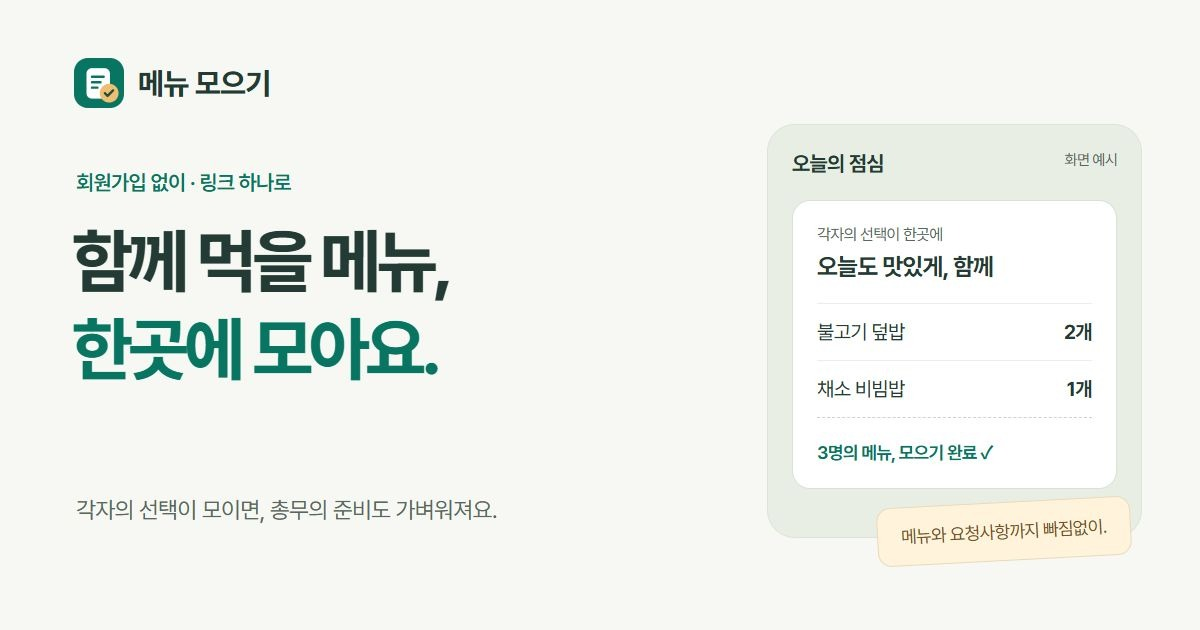
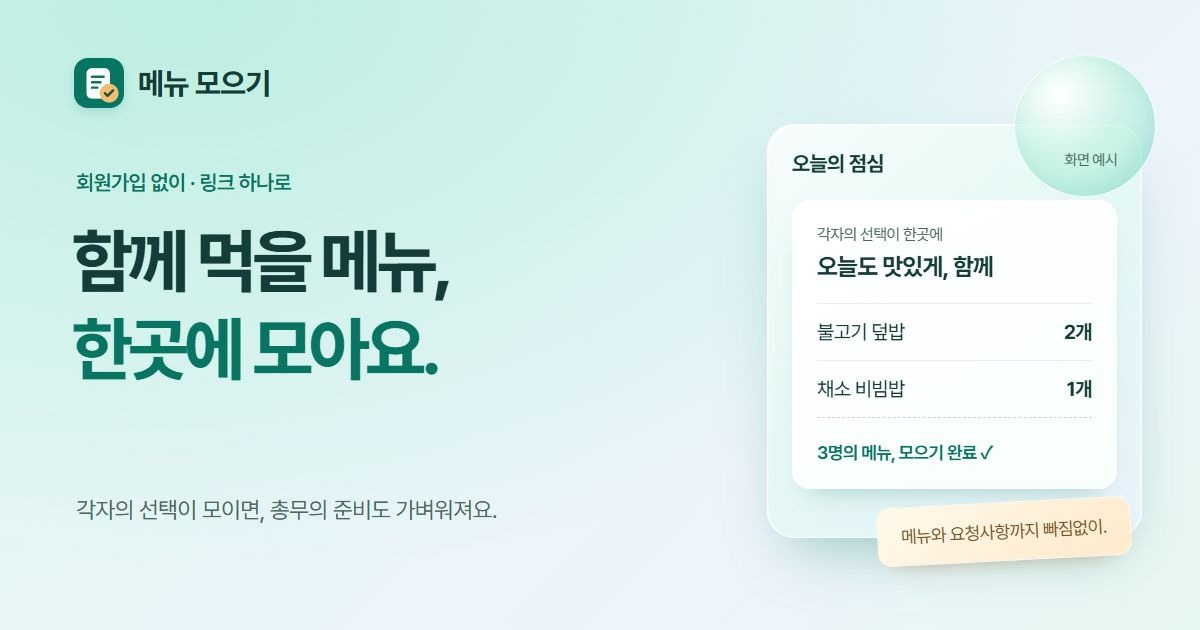
Build mint glass styling for menu collection

diff --git a/index.html b/index.html
@@ -17,7 +17,7 @@
 <link rel="apple-touch-icon" href="icon-180.png">
 <link rel="manifest" href="manifest.webmanifest">
 <meta name="apple-mobile-web-app-title" content="메뉴 모으기">
-<meta name="theme-color" content="#f7f8f3">
+<meta name="theme-color" content="#e8f7f3">
 <link rel="stylesheet" href="https://cdn.jsdelivr.net/gh/orioncactus/pretendard@v1.3.9/dist/web/variable/pretendardvariable-dynamic-subset.min.css">
 <style>
 /* 저녁에 뭐 먹을래? — 배달앱 같은 모바일 화면.
@@ -897,32 +897,38 @@ label.prow{display:block;cursor:pointer}
 .mm.tab-review{padding-bottom:150px}
 .mm :focus-visible{outline:3px solid #006b60;outline-offset:3px}
 @media(max-width:420px){.mm .menus{margin:0 12px;padding:0 12px}.mm .menu-main{padding:12px 0;min-height:140px}.mm .menu .desc{-webkit-line-clamp:1}.mm .m-emo{flex-basis:72px;height:72px;margin-bottom:44px}.mm .m-ctl{right:0;bottom:10px}.mm .nav-i span{font-size:12px}.mm .cartbar{font-size:14px}.mm .cartbar .sp{white-space:normal;line-height:1.3}.mm .pb-treat{flex-wrap:wrap;gap:4px}.mm .pb-left{margin-left:34px}.mm .pb-in{padding:6px 10px;gap:3px}.mm .pb-note{padding-top:3px;padding-bottom:3px}.mm .shop-title h2{font-size:16px}}
-/* 메뉴 모으기: 종이 메뉴판처럼 편안한 면, 또렷한 선택, 넉넉한 터치 영역.
+/* 메뉴 모으기: 민트빛 유리, 볼록한 버튼, 또렷한 메뉴와 넉넉한 터치 영역.
    room.css의 동작별 레이아웃 위에서 브랜드와 반응형 배치를 관리합니다. */
 :root{
-  --mint:#087563;--mint-d:#086452;--mint-l:#e4f2eb;--mint-ll:#f0f7f3;
-  --ink:#233b34;--sub:#566960;--mute:#687970;--line:#dce5de;--band:#edf2ed;--bg:#f7f8f3;
-  --glass:#fff;--glass-hi:#fff;--glass-b:#dce5de;--clay:none;--clay-s:none;--press:none;
-  --grad:linear-gradient(#087563,#087563);--grad-shadow:none;--r:18px;--top-h:68px;--nav-h:72px;
+  --mint:#087e72;--mint-d:#075b53;--mint-l:#d9f5ec;--mint-ll:#effbf7;
+  --ink:#153d38;--sub:#4c6863;--mute:#5b746e;--line:rgba(20,93,83,.15);--band:#e3f3f0;--bg:#e8f7f3;
+  --glass:rgba(255,255,255,.74);--glass-hi:rgba(255,255,255,.96);--glass-b:rgba(255,255,255,.94);
+  --clay:0 20px 38px -24px #0b6f6855,0 5px 14px -8px #275f5b26,inset 0 1px 0 #fff;
+  --clay-s:0 8px 15px -10px #0b6f6870,0 2px 4px #1a695409,inset 0 1px 0 #fff;
+  --press:inset 0 2px 5px #27635d12,inset 0 -1px 0 #fff;
+  --grad:linear-gradient(175deg,#a5f2e3 0%,#63dfcc 38%,#32c5b5 100%);
+  --grad-shadow:0 12px 24px -12px #0a857d90,inset 0 2px 0 #ffffffa6,inset 0 -3px 0 #0b78632b;
+  --action-ink:#083f39;--r:22px;--top-h:68px;--nav-h:72px;
   --display:var(--body);--accent:#d69749;
 }
-html,body{background:var(--bg);color:var(--ink);font-size:16px}
-body::after{display:none}body::before{background:var(--bg)}
+html{background:var(--bg)}
+body{background:radial-gradient(ellipse at 10% 0%,#bdeee299,transparent 48%),radial-gradient(ellipse at 100% 50%,#c8dafa88,transparent 55%),linear-gradient(155deg,#e2f7f1,#edf4fc 55%,#e7f7f1);background-attachment:fixed;color:var(--ink);font-size:16px}
+body::after{display:none}body::before{background:#e8f7f3}
 #app{max-width:640px;padding-bottom:calc(160px + env(safe-area-inset-bottom,0px))}
 #app.view-home{padding-bottom:0}#app.view-create,#app.view-catalog{padding-bottom:30px}
 .mm{line-height:1.5;letter-spacing:-.025em}
 .mm h1,.mm h2,.mm h3{letter-spacing:-.035em}
-.mm .stores,.mm .menus,.mm .room-list,.mm .plist,.mm .card,.mm .ticket,.mm .f-sec,.mm .a-sec,.mm .share-card,.mm .room-head,.mm .cart-store,.mm .summary,.mm .cart-req,.mm .how li,.mm .sent-ok,.mm .who-btn,.mm .room-card{backdrop-filter:none;-webkit-backdrop-filter:none;box-shadow:none}
-.mm .btn,.mm .small-btn,.mm .x-btn,.mm .top .back,.mm .chip-who,.mm .who-btn,.mm .filter-chips button,.mm .quick button,.mm .tabs-line button{box-shadow:none;min-height:44px}
-.mm .btn,.sheet .btn{border-radius:12px;box-shadow:none;font-weight:700;padding:13px 18px}
+.mm .stores,.mm .room-list,.mm .plist,.mm .card,.mm .ticket,.mm .f-sec,.mm .a-sec,.mm .share-card,.mm .room-head,.mm .cart-store,.mm .summary,.mm .cart-req,.mm .how li,.mm .sent-ok,.mm .who-btn,.mm .room-card{background:var(--glass-hi);border-color:var(--glass-b);backdrop-filter:none;-webkit-backdrop-filter:none;box-shadow:var(--clay)}
+.mm .btn,.mm .small-btn,.mm .x-btn,.mm .top .back,.mm .chip-who,.mm .who-btn,.mm .filter-chips button,.mm .quick button,.mm .tabs-line button{min-height:44px}
+.mm .btn,.sheet .btn{border:1px solid #1b9d8c36;border-radius:16px;background:var(--grad);color:var(--action-ink);box-shadow:var(--grad-shadow);font-weight:750;padding:13px 18px}
 .mm .btn.block{padding:14px 18px;font-size:16px}
-.mm .btn.gray,.mm .btn.line-dark{background:#fff;border:1px solid #cbd8cf;box-shadow:none}
-.mm .btn.red{background:#b7443c;box-shadow:none}
+.mm .btn.gray,.mm .btn.line-dark{background:linear-gradient(#ffffffed,#eff9f5);color:var(--ink);border:1px solid #c5ddd5;box-shadow:var(--clay-s)}
+.mm .btn.red{background:linear-gradient(#c14d44,#a83631);color:#fff;border-color:#a43630;box-shadow:inset 0 1px 0 #ffffff50,0 8px 16px -12px #a8363190}
 .mm .btn:disabled{background:#e2e8e1;color:#67766c;cursor:not-allowed}
 .mm .btn:not(:disabled):hover{filter:brightness(.94)}
-.mm .small-btn,.mm .x-btn{background:#f3f6f1;border:1px solid var(--line);border-radius:10px}
+.mm .small-btn,.mm .x-btn{background:linear-gradient(#fff,#eff9f5);border:1px solid var(--glass-b);border-radius:12px;box-shadow:var(--clay-s)}
 .mm .text-btn{min-height:44px;padding-top:10px;padding-bottom:10px}
-.mm .input{background:#fff;border:1px solid #baccc1;border-radius:10px;box-shadow:none;font-size:16px;line-height:1.5}
+.mm .input{background:#fcfffe;border:1px solid #b6cfc5;border-radius:14px;box-shadow:var(--press);font-size:16px;line-height:1.5}
 .mm .input:focus{border-color:var(--mint);box-shadow:0 0 0 3px #d8ece2}
 .mm .field{color:var(--ink);font-weight:650;font-size:14px;line-height:1.6}
 .mm .hint,.mm .muted{color:var(--sub);font-size:14px;line-height:1.6;font-weight:400}
@@ -930,22 +936,22 @@ body::after{display:none}body::before{background:var(--bg)}
 .mm .notice,.mm .hint-box,.mm .custom-box,.mm .edit-box{border-radius:12px;box-shadow:none}
 .mm .notice{background:#fff2d9;border-color:#eadfc7}.mm .notice.mint{background:#eaf4ee;color:#205943}
 .mm .notice.red{background:#fff0ed;border-color:#e9cec8;color:#963c35}
-.mm .seg.wide{background:#eaf0e9;box-shadow:none;border-radius:12px;gap:4px}
+.mm .seg.wide{background:#cfe5dd70;box-shadow:var(--press);border:1px solid #ffffffa6;border-radius:16px;gap:4px}
 .mm .seg.wide button{min-height:44px;border-radius:8px;font-size:14px}
-.mm .seg.wide button.on{box-shadow:0 1px 4px #183e2910;color:var(--mint-d)}
-.mm .top{padding:0 16px;gap:10px;background:rgba(247,248,243,.97);border-bottom:1px solid var(--line);backdrop-filter:none}
+.mm .seg.wide button.on{background:linear-gradient(#fff,#f5fffb);box-shadow:var(--clay-s);color:var(--mint-d)}
+.mm .top{padding:0 16px;gap:10px;background:rgba(238,251,247,.84);border-bottom:1px solid #ffffffc9;box-shadow:0 6px 22px -18px #135f5670;backdrop-filter:blur(20px) saturate(140%);-webkit-backdrop-filter:blur(20px) saturate(140%)}
 .top-title{flex:1;min-width:0}.top-eyebrow{display:block;font-size:11px;font-weight:600;color:var(--sub);line-height:1.4;margin-bottom:1px}
 .top-brand{display:flex;align-items:center;gap:10px;font-size:18px}.top-brand img{width:30px;height:30px}
-.mm .top h1{font-size:18px;line-height:1.4}.mm .top .back{flex:0 0 44px;width:44px;height:44px;background:transparent;border:1px solid var(--line);border-radius:12px}
-.mm .chip-who{background:#fff;border:1px solid var(--line);font-size:13px;padding:5px 10px;max-width:39%;overflow:hidden;text-overflow:ellipsis;display:block}
+.mm .top h1{font-size:18px;line-height:1.4}.mm .top .back{flex:0 0 44px;width:44px;height:44px;background:linear-gradient(#ffffffed,#eefaf5);border:1px solid #fff;border-radius:14px;box-shadow:var(--clay-s)}
+.mm .chip-who{background:linear-gradient(#fff,#f1fbf6);border:1px solid #fff;box-shadow:var(--clay-s);font-size:13px;padding:5px 10px;max-width:39%;overflow:hidden;text-overflow:ellipsis;display:block}
 .mm .chip-who i{display:none}
-.mm .nav{width:min(640px,100%);bottom:0;border-radius:0;border:0;border-top:1px solid var(--line);background:#fff;backdrop-filter:none;-webkit-backdrop-filter:none;box-shadow:none;padding:6px 6px calc(6px + env(safe-area-inset-bottom,0px));min-height:var(--nav-h)}
+.mm .nav{width:min(616px,calc(100% - 24px));bottom:calc(10px + env(safe-area-inset-bottom,0px));border-radius:24px;border:1px solid #fff;background:#f8fffcdb;backdrop-filter:blur(22px) saturate(150%);-webkit-backdrop-filter:blur(22px) saturate(150%);box-shadow:0 14px 36px -18px #176b5c70,inset 0 1px 0 #fff;padding:6px;min-height:var(--nav-h)}
 .mm .nav-i{color:#65776d;padding:8px 0;border-radius:10px;gap:4px;min-height:58px}
-.mm .nav-i span{font-size:12px;font-weight:600}.mm .nav-i.on{background:#e8f3ec;color:var(--mint-d);box-shadow:none}
-.mm .nav-badge{box-shadow:none}.nav-brand,.nav-room,.nav-foot{display:none}
-.mm .cartbar{bottom:calc(var(--nav-h) + 12px + env(safe-area-inset-bottom,0px));width:min(608px,calc(100% - 32px));border-radius:14px;min-height:56px;padding:14px 16px;box-shadow:0 6px 20px #183e2922;font-size:15px}
-.mm .cartbar .n{background:#ffffff26;color:#fff;border-radius:6px}.mm .cartbar .sp{font-weight:650}
-.mm .bottom-bar{width:min(640px,100%);bottom:0;border-radius:0;padding:12px 16px calc(12px + env(safe-area-inset-bottom,0px));box-shadow:none;background:#fff;border:0;border-top:1px solid var(--line);backdrop-filter:none}
+.mm .nav-i span{font-size:12px;font-weight:600}.mm .nav-i.on{background:linear-gradient(#e2fbf1,#c9efdf);color:var(--mint-d);box-shadow:inset 0 1px 0 #fff,0 4px 8px -6px #14745b80}
+.mm .nav-badge{background:var(--mint);color:#fff;box-shadow:0 3px 6px #0b6f6826}.mm .nav-badge.soft{color:var(--sub)}.nav-brand,.nav-room,.nav-foot{display:none}
+.mm .cartbar{bottom:calc(var(--nav-h) + 24px + env(safe-area-inset-bottom,0px));width:min(608px,calc(100% - 32px));border:1px solid #1b9d8c36;border-radius:18px;min-height:56px;padding:14px 16px;background:var(--grad);color:var(--action-ink);box-shadow:var(--grad-shadow);font-size:15px}
+.mm .cartbar .n{background:#ffffff8a;color:var(--action-ink);border-radius:8px;box-shadow:inset 0 1px 0 #fff}.mm .cartbar .sp{font-weight:750}
+.mm .bottom-bar{width:min(616px,calc(100% - 24px));bottom:calc(10px + env(safe-area-inset-bottom,0px));border-radius:22px;padding:10px;box-shadow:var(--clay);background:#f8fffcdb;border:1px solid #fff;backdrop-filter:blur(22px);-webkit-backdrop-filter:blur(22px)}
 .mm.tab-set .save-bar~.nav{display:none}
 #app.enter>.bottom-bar{animation:none!important}
 .brand-footer{padding:28px 24px;border-top:1px solid var(--line);color:var(--sub);font-size:13px;display:flex;gap:12px;justify-content:space-between}
@@ -961,78 +967,86 @@ body::after{display:none}body::before{background:var(--bg)}
 .land h1 em{color:var(--mint)}.land p{font-size:16px;line-height:1.8;max-width:none;margin:0 0 22px;color:var(--sub)}
 .mm .land-go{display:flex;gap:10px;min-height:54px;width:100%;font-size:16px}.land-go>span{margin-left:auto}
 .land-hint{display:block;margin-top:12px;font-size:12px;line-height:1.6;color:var(--sub)}
-.home-preview{position:relative;background:#e8eee4;border:1px solid #dce4d7;border-radius:24px;padding:22px 20px 44px;min-width:0}
+.home-preview{position:relative;isolation:isolate;background:linear-gradient(140deg,#ffffffbd,#ddfbef7a 45%,#e8f1ffad);border:1px solid #fff;border-radius:28px;padding:22px 20px 44px;min-width:0;box-shadow:0 28px 65px -30px #167e6873,inset 0 1px 2px #fff,inset 0 -1px 0 #c5e9df;backdrop-filter:blur(18px);-webkit-backdrop-filter:blur(18px)}
+.home-preview::before{content:'';position:absolute;width:170px;height:170px;border-radius:50%;right:-12px;top:-32px;z-index:-1;pointer-events:none;background:radial-gradient(circle at 32% 28%,#ffffffed,#b6f1da91 40%,#4bd3b94a 70%,#ffffff42);border:1px solid #ffffffc4;box-shadow:inset -8px -10px 22px #3eae9629,0 18px 30px -18px #258c7655}
+.home-preview::after{content:'';position:absolute;right:12px;top:108px;width:24px;height:24px;background:#fff;clip-path:polygon(50% 0,62% 35%,100% 50%,62% 65%,50% 100%,38% 65%,0 50%,38% 35%);pointer-events:none}
 .hp-heading{display:flex;align-items:center;justify-content:space-between;gap:10px;font-weight:700}.hp-label{font-size:11px;color:var(--sub);font-weight:400}
 .hp-people{display:flex;align-items:center;gap:0;margin:15px 0;font-size:11px}
 .hp-people>span:not(.hp-check){width:36px;height:36px;display:grid;place-items:center;background:#fff;border:2px solid #e8eee4;border-radius:50%;margin-right:-6px;color:#546147;font-weight:600}
 .hp-people>span:nth-child(2){background:#fae5cb}.hp-people>span:nth-child(3){background:#d8e6dc}.hp-check{margin-left:auto;color:var(--mint-d);font-weight:600}
-.hp-ticket{background:#fff;border:1px solid #d8e2d6;border-radius:14px;padding:18px;box-shadow:0 12px 25px #254a3010}
+.hp-ticket{background:linear-gradient(150deg,#fff,#f9fffc);border:1px solid #fff;border-radius:20px;padding:18px;box-shadow:0 18px 28px -18px #1a776857,inset 0 -2px 0 #def1e9}
 .hp-ticket-head{display:flex;gap:12px;align-items:center;margin-bottom:18px}.hp-ticket-head small{display:block;font-size:11px;color:var(--sub);margin-bottom:2px}.hp-ticket-head b{font-size:15px}
-.hp-plate{width:40px;height:40px;display:grid;place-items:center;background:#f2f5ee;border-radius:50%;color:var(--mint)}
+.hp-plate{width:40px;height:40px;display:grid;place-items:center;background:var(--grad);border-radius:14px;color:var(--action-ink);box-shadow:var(--grad-shadow)}
 .hp-line,.hp-total{display:flex;justify-content:space-between;align-items:center;gap:12px;font-size:14px;padding:10px 0;border-top:1px solid #eef1eb}
 .hp-line b{font-size:13px}.hp-total{padding:16px 0 0;margin-top:8px;border-top:1px dashed #cbd7c6;font-size:12px}.hp-total b{color:var(--mint)}
-.hp-note{position:absolute;right:18px;bottom:-10px;display:flex;gap:10px;align-items:center;padding:12px 16px;background:#fff3dc;border:1px solid #ead9b9;border-radius:12px;color:#725123;transform:rotate(-3deg);font-size:12px;line-height:1.5}
+.hp-note{position:absolute;right:18px;bottom:-10px;display:flex;gap:10px;align-items:center;padding:12px 16px;background:linear-gradient(145deg,#fff9eb,#ffe9cb);border:1px solid #fff8eb;border-radius:16px;color:#725123;transform:rotate(-3deg);font-size:12px;line-height:1.5;box-shadow:0 12px 22px -16px #a66c3590,inset 0 1px 0 #fff}
 .hp-note svg{width:24px;height:24px}.home-content{padding:16px 22px 36px}.how-heading{margin:28px 0 18px}.how-heading .sec-title{margin:6px 0 0;font-size:22px}
-.mm .how{grid-template-columns:1fr;gap:0}.mm .how li{background:transparent;border:0;border-radius:0;border-top:1px solid var(--line);padding:20px 0;display:flex;flex-direction:row;gap:16px;align-items:flex-start}
-.mm .how i{font-size:12px;font-weight:700;width:32px;height:32px;margin:0;background:#e8f0e6;border-radius:10px;color:var(--mint-d);flex-shrink:0;box-shadow:none}
+.mm .how{grid-template-columns:1fr;gap:12px}.mm .how li{background:var(--glass);border:1px solid #fff;border-radius:20px;padding:20px;display:flex;flex-direction:row;gap:16px;align-items:flex-start;box-shadow:var(--clay-s)}
+.mm .how i{font-size:12px;font-weight:700;width:32px;height:32px;margin:0;background:linear-gradient(#e1f9ed,#c5eddf);border:1px solid #fff;border-radius:10px;color:var(--mint-d);flex-shrink:0;box-shadow:var(--clay-s)}
 .how b{display:block;font-size:16px;margin:3px 0 4px}.how span{font-size:14px;line-height:1.65;display:block}.my-rooms{margin:12px 0 32px}
-.mm .room-card{border-radius:16px}.rc-acts{background:#f7faf5}.rr-ic{background:#edf3e9;border-radius:12px}.rc-chip{box-shadow:none;background:#f2f5ee}
+.mm .room-card{border-radius:22px;background:var(--glass);border:1px solid #fff}.rc-acts{background:#effbf6b3}.rr-ic{background:linear-gradient(#e1f9ed,#c5eddf);border-radius:14px;box-shadow:var(--clay-s)}.rc-chip{box-shadow:none;background:#edf9f4}
 
 /* 메뉴: 사진과 가격은 또렷하게, 선택 상태는 테두리와 문구로 함께 표시. */
 .mm .menu-context{padding:10px 20px;font-size:13px;align-items:center}.menu-context>span:first-child{display:flex;align-items:center;gap:6px}.menu-context>span:first-child::before{content:'';width:6px;height:6px;border-radius:50%;background:currentColor}
-.mm .store-tabs{padding:2px 16px 10px;gap:8px}.mm .store-tabs button{border-radius:10px;border-color:var(--line);color:var(--sub);min-height:44px}.mm .store-tabs button.on{background:var(--mint);color:#fff;border-color:var(--mint)}
-.mm .shop-compact{margin:2px 16px 10px;padding:14px;border-radius:14px;border-color:var(--line);background:#fff}.mm .shop-title{padding-right:68px}.mm .shop-title h2{font-size:17px;font-weight:750}.mm .shop-title span{font-size:12px}.mm .shop-details{font-size:14px}
+.mm .store-tabs{padding:2px 16px 10px;gap:8px}.mm .store-tabs button{border-radius:14px;border-color:#fff;background:linear-gradient(#fffffff2,#edf9f3);color:var(--sub);box-shadow:var(--clay-s);min-height:44px}.mm .store-tabs button.on{background:var(--grad);color:var(--action-ink);border-color:#6bbfac6b;box-shadow:var(--grad-shadow)}
+.mm .shop-compact{margin:2px 16px 10px;padding:14px;border-radius:20px;border:1px solid #fff;background:linear-gradient(130deg,#ffffffdb,#eefcf3ad);box-shadow:var(--clay);backdrop-filter:blur(16px);-webkit-backdrop-filter:blur(16px)}.mm .shop-title{padding-right:68px}.mm .shop-title h2{font-size:17px;font-weight:750}.mm .shop-title span{font-size:12px}.mm .shop-details{font-size:14px}
 .mm .thumb,.mm .m-emo{border-radius:12px;box-shadow:none}.mm .shop-title .thumb{border-radius:10px}
 .mm .menus{background:transparent;border:0;padding:0;margin:0 16px;display:grid;gap:10px;box-shadow:none;backdrop-filter:none}
-.mm .menu{background:#fff;border:1px solid var(--line);border-radius:16px;padding:0 14px;overflow:hidden}.mm .menu:last-child{border-bottom:1px solid var(--line)}
-.mm .menu.in{border-color:var(--mint);background:#f5faf6;box-shadow:inset 3px 0 var(--mint)}
+.mm .menu{background:linear-gradient(150deg,#fff,#fbfffe);border:1px solid #d6e9e1;border-radius:22px;padding:0 14px;overflow:hidden;box-shadow:0 12px 22px -18px #1a77686b,inset 0 1px 0 #fff}.mm .menu:last-child{border-bottom:1px solid #d6e9e1}
+.mm .menu.in{border-color:#158879;background:linear-gradient(140deg,#fafffd,#eafaf2);box-shadow:inset 3px 0 var(--mint),0 10px 24px -18px #118b7280}
 .mm .menu.over .info{opacity:1}.mm .menu.over .add{background:#e2e8e1;color:#566960}
-.mm .menu-main{padding:14px 0;min-height:142px;gap:12px}.mm .menu .info{padding-right:0;min-width:0}.mm .menu .name{font-size:16px;line-height:1.4;font-weight:700;padding-right:0}.mm .menu .desc{font-size:13px;line-height:1.5;color:var(--sub);-webkit-line-clamp:2;margin-top:5px}.mm .menu .price{font-size:16px;font-weight:700;margin-top:8px}
+.mm .menu-main{padding:14px 0;min-height:142px;gap:12px}.mm .menu .info{padding-right:0;min-width:0}.mm .menu .name{color:var(--ink);font-size:16px;line-height:1.4;font-weight:700;padding-right:0}.mm .menu .desc{font-size:13px;line-height:1.5;color:var(--sub);-webkit-line-clamp:2;margin-top:5px}.mm .menu .price{color:var(--mint-d);font-size:17px;font-weight:750;margin-top:8px}
 .mm .m-emo{width:76px;flex-basis:76px;height:76px;margin-bottom:38px}.mm .m-ctl{right:10px;bottom:10px}.mm .menu.plain .menu-main{min-height:126px;padding-right:115px}.mm .menu.plain .m-ctl{bottom:14px}
-.mm .qty{height:44px;border:1px solid #c8d8cc;background:#fff;border-radius:10px;box-shadow:none!important;overflow:hidden}.mm .qty button{width:44px;height:44px;min-width:44px;color:var(--mint-d);font-size:21px}.mm .qty b{min-width:26px;font-size:14px}.mm .add{border-radius:10px;box-shadow:none;width:44px;height:44px;font-size:24px}
+.mm .qty{height:44px;border:1px solid #bfded1;background:linear-gradient(#fff,#effbf5);border-radius:14px;box-shadow:var(--clay-s)!important;overflow:hidden}.mm .qty button{width:44px;height:44px;min-width:44px;color:var(--mint-d);font-size:21px}.mm .qty b{min-width:26px;font-size:14px}.mm .add{background:var(--grad);color:var(--action-ink);border:1px solid #3aab9259;border-radius:14px;box-shadow:var(--grad-shadow);width:44px;height:44px;font-size:24px}
 .mm .tag{font-size:10px;font-weight:650;border-radius:4px;padding:2px 5px}.mm .tag:not(.hot):not(.kid):not(.over){background:#e5f1e7;color:var(--mint-d)}
-.mm .tabs-line{margin:0;padding:0 16px 10px;gap:6px}.mm .tabs-line button,.mm .filter-chips button,.mm .quick button{border:1px solid var(--line);border-radius:9px;box-shadow:none;font-size:13px;background:#fff;min-height:40px}
-.mm .tabs-line button.on,.mm .filter-chips button.on,.mm .quick button.on{background:var(--mint-l);border-color:#b7d5c2;color:var(--mint-d);box-shadow:none}
-.mm .pin-bar{padding:8px 16px 0}.mm .pb-in{background:#edf4e9;border:1px solid #d8e3d2;border-radius:12px;box-shadow:none;backdrop-filter:none;padding:8px 10px}.mm .pb-ic,.mm .pb-gift{box-shadow:none;border-radius:7px}.mm .pb-txt{font-size:13px}.mm .pb-left{background:#fff;color:var(--mint-d)}
+.mm .tabs-line{margin:0;padding:0 16px 10px;gap:6px}.mm .tabs-line button,.mm .filter-chips button,.mm .quick button{border:1px solid #fff;border-radius:12px;box-shadow:var(--clay-s);font-size:13px;background:linear-gradient(#fffffff2,#f0faf5);min-height:40px}
+.mm .tabs-line button.on,.mm .filter-chips button.on,.mm .quick button.on{background:linear-gradient(#e5fbf1,#ccefe2);border-color:#9ccdbb;color:var(--mint-d);box-shadow:inset 0 1px 0 #fff}.mm .filter-chips button.on small{color:var(--mint-d)}
+.mm .pin-bar{padding:8px 16px 0}.mm .pb-in{background:#e7f9efeb;border:1px solid #fff;border-radius:16px;box-shadow:var(--clay-s);backdrop-filter:blur(12px);-webkit-backdrop-filter:blur(12px);padding:8px 10px}.mm .pb-ic,.mm .pb-gift{box-shadow:var(--clay-s);border-radius:9px}.mm .pb-txt{font-size:13px}.mm .pb-left{background:#fff;color:var(--mint-d)}
 .mm .sent-note{border:1px solid #cfe2d4;background:#eaf4ed;border-radius:10px;box-shadow:none;font-size:13px;padding:10px 12px;min-height:44px}.mm .sent-note.unsent{background:#fff2d9;border-color:#e7d9b9}
 
 /* 작성과 제출: 안내를 줄이고 내용이 중심이 되게. */
-.mm .room-head{background:#eef4e9;border:1px solid #dbe5d4;padding:22px;margin:16px}.mm .room-head h1{font-size:26px;line-height:1.4}.mm .rh-chip,.mm .host-badge{box-shadow:none;background:#fff;font-size:12px}.mm .host-badge{color:var(--mint-d)}
+.mm .room-head{background:linear-gradient(130deg,#ffffffe6,#d9f7eecf);border:1px solid #fff;padding:22px;margin:16px}.mm .room-head h1{font-size:26px;line-height:1.4}.mm .rh-chip,.mm .host-badge{box-shadow:var(--clay-s);background:#fff;font-size:12px}.mm .host-badge{color:var(--mint-d)}
 .who-content{padding-top:20px}.who-content .sec-title{margin:4px 0 18px;font-size:24px}.mm .who-btn{border-radius:12px;min-height:80px}.mm .name-in{gap:8px}.mm .name-in .input{min-width:0}.mm .name-in .btn{min-height:50px}
-.mm .f-sec,.mm .a-sec{border-radius:16px;padding:20px 18px;border:1px solid var(--line)}.mm .f-sec h2{font-size:17px;gap:10px}.mm .f-sec h2 i{width:26px;height:26px;border-radius:7px;background:#e5f0e6;color:var(--mint-d);box-shadow:none}
+.mm .f-sec,.mm .a-sec{border-radius:22px;padding:20px 18px;border:1px solid #fff}.mm .f-sec h2{font-size:17px;gap:10px}.mm .f-sec h2 i{width:26px;height:26px;border-radius:9px;background:var(--grad);color:var(--action-ink);box-shadow:var(--clay-s)}
 .mm .form>p.hint{margin:16px 2px 20px}.mm .treat-toggle{background:#f7f9f3;border:1px solid var(--line);border-radius:12px;box-shadow:none}.mm .tt-ic{background:#f8eacb;box-shadow:none;border-radius:10px}.mm .cap-chips button{min-height:44px;box-shadow:none;background:#fff;border:1px solid var(--line);border-radius:8px}.mm .cap-chips button.on{background:#f8eacb;color:#71541e;border-color:#d8bf83}
-.mm .cart-store,.mm .cart-req,.mm .summary{padding:18px;border-radius:16px}.mm .who-line{margin:14px 16px;padding:0;font-size:14px}.mm .who-line i{box-shadow:none;background:#e8f0e5}
+.mm .cart-store,.mm .cart-req,.mm .summary{padding:18px;border-radius:22px}.mm .who-line{margin:14px 16px;padding:0;font-size:14px}.mm .who-line i{box-shadow:var(--clay-s);background:#e0f6e9}
 .mm .selection-status{background:#fff3dc;border:1px solid #e8d9b8;border-radius:10px;font-size:13px;margin-top:14px}.mm .selection-status.sent{background:#eaf4ed;border-color:#cfe2d4}.mm .cart-req .quick{gap:6px}.mm .cart-req .quick button{min-height:44px}.mm .cart-req .input{resize:vertical}.mm .total{font-size:18px}.mm .total span:last-child{font-variant-numeric:tabular-nums}
-.mm .ticket{border-radius:16px;border:1px solid var(--line);padding:20px}.mm .mine-item.cur .ticket{box-shadow:none;border-color:#b5d2bf}.mm .ticket::before,.mm .ticket::after{display:none}.mm .t-head{padding-bottom:16px;text-align:left;border-bottom:1px dashed #cbd8cd}.mm .t-head span{color:var(--sub);font-size:12px}.mm .t-head b{font-size:20px}.mm .t-head small{font-size:12px}.mm .t-store{font-size:14px}.mm .t-line{font-size:14px;gap:14px;align-items:flex-start}.mm .t-line>span:last-child{white-space:nowrap;font-variant-numeric:tabular-nums}.mm .t-total{border-top:1px solid var(--line);font-size:16px}.mm .t-total b{font-size:24px}.mm .t-req{background:#f1f6ee;border-radius:10px;font-size:14px}
-.mm .sent-ok{display:flex;align-items:center;gap:14px;text-align:left;padding:18px;margin:16px 0;background:#eaf4ed;border-color:#cfdfd0;border-radius:14px}.mm .so-ic{width:40px;height:40px;flex:0 0 40px;margin:0;background:var(--mint);font-size:21px;box-shadow:none}.mm .sent-ok h2{font-size:18px}.mm .sent-ok .muted{font-size:13px}
+.mm .ticket{border-radius:22px;border:1px solid #fff;padding:20px}.mm .mine-item.cur .ticket{box-shadow:var(--clay);border-color:#a8d5c3}.mm .ticket::before,.mm .ticket::after{display:none}.mm .t-head{padding-bottom:16px;text-align:left;border-bottom:1px dashed #cbd8cd}.mm .t-head span{color:var(--sub);font-size:12px}.mm .t-head b{font-size:20px}.mm .t-head small{font-size:12px}.mm .t-store{font-size:14px}.mm .t-line{font-size:14px;gap:14px;align-items:flex-start}.mm .t-line>span:last-child{white-space:nowrap;font-variant-numeric:tabular-nums}.mm .t-total{border-top:1px solid var(--line);font-size:16px}.mm .t-total b{font-size:24px}.mm .t-req{background:#eef9f2;border-radius:12px;font-size:14px}
+.mm .sent-ok{display:flex;align-items:center;gap:14px;text-align:left;padding:18px;margin:16px 0;background:linear-gradient(130deg,#f6fffa,#d8f5e7);border-color:#fff;border-radius:20px;box-shadow:var(--clay-s)}.mm .so-ic{width:40px;height:40px;flex:0 0 40px;margin:0;background:var(--grad);color:var(--action-ink);font-size:21px;box-shadow:var(--grad-shadow)}.mm .sent-ok h2{font-size:18px}.mm .sent-ok .muted{font-size:13px}
 .mm .mine-head .sec-title{font-size:17px}.mm .mine-acts{gap:8px}.mm .empty{padding:64px 24px}.mm .empty h2{font-size:22px;line-height:1.4}.mm .empty .big{filter:none;font-size:42px}
-.mm .share-card{background:#f0f6ed!important;border:1px solid #d2e1cf;border-radius:16px}.mm .sc-ic{background:#dcebdc;color:var(--mint-d);border-radius:10px;box-shadow:none;flex:0 0 40px;width:40px;height:40px}.mm .sc-link{background:#fff;border:1px solid var(--line);border-radius:8px;box-shadow:none;font-size:12px;padding:10px}.mm .sc-top span{font-size:12px;line-height:1.5}.mm .sc-top b{font-size:15px}.mm .prog-num b{font-size:32px}.mm .prog-txt span{font-size:13px}.mm .prog-txt b{font-size:15px}.mm .bar{height:6px;box-shadow:none}.mm .bar i{box-shadow:none}
+.mm .share-card{background:linear-gradient(130deg,#ffffffdb,#d9f7edbd)!important;border:1px solid #fff;border-radius:22px}.mm .sc-ic{background:var(--grad);color:var(--action-ink);border-radius:13px;box-shadow:var(--grad-shadow);flex:0 0 40px;width:40px;height:40px}.mm .sc-link{background:#fcfffe;border:1px solid #c5ddd2;border-radius:12px;box-shadow:var(--press);font-size:12px;padding:10px}.mm .sc-top span{font-size:12px;line-height:1.5}.mm .sc-top b{font-size:15px}.mm .prog-num b{font-size:32px}.mm .prog-txt span{font-size:13px}.mm .prog-txt b{font-size:15px}.mm .bar{height:6px;box-shadow:var(--press)}.mm .bar i{box-shadow:inset 0 1px 0 #ffffff80}
 .mm .sum-card{border-radius:16px;padding:18px}.mm .sum-head b{font-size:15px}.mm .sum-head>div{min-width:0}.mm .sum-head span{font-size:12px}.mm .sum-won{white-space:nowrap;font-variant-numeric:tabular-nums}.mm .sum-card .line{font-size:14px;gap:12px}.mm .group-requests{background:#f2f6ee;border-color:#dae5d4;font-size:13px}.mm .message-preview pre{background:#fafbf7;font-size:13px}.mm .message-preview summary{font-size:14px}
 .mm .host-created{margin-bottom:16px}.mm .host-results .seg{margin-bottom:14px}.mm .host-overview{min-width:0}.mm .host-results{min-width:0}.mm .host-results .toggle{font-size:13px;margin:8px 0 14px;line-height:1.6}
 .share-card>summary{list-style:none;cursor:pointer;min-height:44px}.share-card>summary::-webkit-details-marker{display:none}.sc-expand{margin-left:auto}.share-card[open] .sc-expand{transform:rotate(180deg)}
-.sheet-bg{background:#233b3466;backdrop-filter:blur(3px)}.sheet{border-radius:22px 22px 0 0;background:#fff;box-shadow:0 15px 80px #0002}.sheet-x{min-width:44px;min-height:44px;box-shadow:none;border:1px solid var(--line)}.sheet .btn{min-height:52px}.sheet .qty button{min-width:44px;min-height:44px}.sheet .qty{height:44px}
+.sheet-bg{background:#153d3859;backdrop-filter:blur(5px);-webkit-backdrop-filter:blur(5px)}.sheet{border:1px solid #fff;border-radius:28px 28px 0 0;background:linear-gradient(145deg,#fff,#f0fcf6);box-shadow:0 20px 80px #133b3840,inset 0 1px 0 #fff}.sheet-x{min-width:44px;min-height:44px;box-shadow:var(--clay-s);border:1px solid var(--line)}.sheet .btn{min-height:52px}.sheet .qty button{min-width:44px;min-height:44px}.sheet .qty{height:44px}
+.home-brand img,.nav-brand img{filter:drop-shadow(0 5px 5px #087e7226)}
+@media(hover:hover) and (prefers-reduced-motion:no-preference){.mm .menu{transition:box-shadow .18s,border-color .18s}.mm .menu:hover{border-color:#9dcdbb;box-shadow:0 16px 26px -18px #1a776880}.mm .btn:not(:disabled):hover{filter:brightness(1.025)}}
 
 @media(min-width:760px){
-  #app{max-width:720px}.mm .menus{grid-template-columns:repeat(2,minmax(0,1fr));align-items:stretch}.mm .menu.plain .menu-main{min-height:142px}.mm .nav{width:720px}.mm .cartbar{width:688px}.mm .bottom-bar{width:720px}
+  #app{max-width:720px}.mm .menus{grid-template-columns:repeat(2,minmax(0,1fr));align-items:stretch}.mm .menu.plain .menu-main{min-height:142px}.mm .nav{width:696px}.mm .cartbar{width:688px}.mm .bottom-bar{width:696px}
   .home-brand>span{display:block}.home-preview{max-width:460px;width:100%;justify-self:center}.mm .land h1{font-size:48px}.land-go{max-width:320px}.sheet-bg{align-items:center}.sheet{border-radius:20px;max-height:85vh}
 }
 @media(min-width:1000px){
   #app{width:calc(100% - 64px);max-width:1184px}#app.with-room-nav{padding-left:224px;padding-top:16px;padding-bottom:110px;min-height:100vh}
   #app.view-create,#app.view-catalog,#app.tab-who:not(.with-room-nav){max-width:760px}
-  .mm .top{height:84px;margin-bottom:12px;padding:0 24px;border-bottom:1px solid var(--line)}.mm .top h1{font-size:26px}.top-eyebrow{font-size:12px}.mm.with-room-nav .top-eyebrow{display:none}.mm .top .back{display:none}.mm.view-create .top .back,.mm.view-catalog .top .back,.mm.tab-who:not(.with-room-nav) .top .back{display:grid}
-  .mm .nav{position:fixed;top:32px;bottom:32px;left:max(32px,calc((100vw - 1184px)/2));transform:none;width:200px;display:flex;flex-direction:column;gap:6px;border:0;border-right:1px solid var(--line);border-radius:0;padding:0 20px 0 0;background:transparent;overflow-y:auto}
+  .mm .top{height:84px;margin-bottom:12px;padding:0 24px;border:1px solid #fff;border-radius:20px}.mm .top h1{font-size:26px}.top-eyebrow{font-size:12px}.mm.with-room-nav .top-eyebrow{display:none}.mm .top .back{display:none}.mm.view-create .top .back,.mm.view-catalog .top .back,.mm.tab-who:not(.with-room-nav) .top .back{display:grid}
+  .mm .nav{position:fixed;top:24px;bottom:24px;left:max(32px,calc((100vw - 1184px)/2));transform:none;width:200px;display:flex;flex-direction:column;gap:6px;border:1px solid #fff;border-radius:24px;padding:20px 12px 16px;background:linear-gradient(155deg,#ffffffd9,#ebfbf4b3);overflow-y:auto}
   .mm.tab-set .save-bar~.nav{display:flex}
-  .nav-brand{display:flex;font-size:19px;padding:0 0 28px;letter-spacing:-.04em}.nav-brand img{width:32px;height:32px}.nav-room{display:flex;flex-direction:column;gap:6px;margin-bottom:20px;padding:14px;background:#eaf0e5;border-radius:12px}.nav-room span{font-size:11px;color:var(--sub)}.nav-room b{font-size:14px;line-height:1.5;overflow-wrap:anywhere}
-  .mm .nav-i{flex-direction:row;align-items:center;justify-content:flex-start;gap:12px;min-height:48px;padding:12px;border-radius:10px}.mm .nav-i span{font-size:14px}.mm .nav-i svg{width:20px;height:20px}.mm .nav-i.on{background:#dfeee2}.mm .nav-badge{position:static;margin-left:auto;min-width:22px;height:22px;border:0;font-size:11px}.mm .nav-dot{left:auto;right:12px;top:20px}.nav-foot{display:block;margin-top:auto;padding:32px 8px 0;font-size:12px;color:var(--sub);line-height:1.8}
-  .mm.with-room-nav .cartbar,.mm.with-room-nav .bottom-bar{left:calc(50% + 112px);width:min(928px,calc(100% - 320px));bottom:20px;border-radius:12px}.mm.with-room-nav .cartbar{padding:16px 22px;min-height:60px}.mm.with-room-nav .bottom-bar{border:1px solid var(--line)}.mm .bottom-bar{width:min(760px,calc(100% - 64px))}
+  .nav-brand{display:flex;font-size:18px;padding:0 0 24px;gap:8px;letter-spacing:-.04em}.nav-brand img{width:30px;height:30px}.nav-room{display:flex;flex-direction:column;gap:6px;margin-bottom:20px;padding:14px;background:#e0f4e9b3;border:1px solid #ffffffb3;box-shadow:var(--press);border-radius:14px}.nav-room span{font-size:11px;color:var(--sub)}.nav-room b{font-size:14px;line-height:1.5;overflow-wrap:anywhere}
+  .mm .nav-i{flex-direction:row;align-items:center;justify-content:flex-start;gap:12px;min-height:48px;padding:12px;border-radius:10px}.mm .nav-i span{font-size:14px}.mm .nav-i svg{width:20px;height:20px}.mm .nav-i.on{background:linear-gradient(#e2fbf1,#c9efdf)}.mm .nav-badge{position:static;margin-left:auto;min-width:22px;height:22px;border:0;font-size:11px}.mm .nav-dot{left:auto;right:12px;top:20px}.nav-foot{display:block;margin-top:auto;padding:32px 8px 0;font-size:12px;color:var(--sub);line-height:1.8}
+  .mm.with-room-nav .cartbar,.mm.with-room-nav .bottom-bar{left:calc(50% + 112px);width:min(928px,calc(100% - 320px));bottom:20px;border-radius:18px}.mm.with-room-nav .cartbar{padding:16px 22px;min-height:60px}.mm.with-room-nav .bottom-bar{border:1px solid var(--line)}.mm .bottom-bar{width:min(760px,calc(100% - 64px))}
   .mm .pin-bar{position:static;padding:0 16px 12px}.mm .menu-context{padding-top:0;padding-bottom:16px}.mm .shop-compact{margin-bottom:16px;padding:18px}.mm .shop-title h2{font-size:20px}.mm .shop-details summary{top:14px;right:16px}.mm .store-tabs{padding-bottom:14px}.mm .menus{gap:14px}.mm .menu-main{min-height:152px;padding:18px 0}.mm .menu.plain .menu-main{min-height:152px}.mm .menu .name{font-size:17px}.mm .m-emo{width:84px;height:84px;flex-basis:84px}.mm .m-ctl{bottom:12px}
   .mm.tab-cart>.wrap,.mm.tab-review>.wrap,.mm.tab-mine>.wrap,.mm.tab-who>.wrap{max-width:720px;margin-left:auto;margin-right:auto}.mm.tab-cart>.cart-store,.mm.tab-cart>.cart-req,.mm.tab-cart>.summary{width:calc(100% - 32px)}.mm.tab-cart>.who-line{padding:0 16px}.mm.tab-who .room-head{max-width:688px;margin:20px auto}.mm.tab-who>.wrap{padding:24px 16px}.mm.tab-set .form{max-width:760px;margin:auto}
-  .home-brand{padding:32px 24px}.home-brand a{font-size:23px}.land{grid-template-columns:1.1fr 1fr;align-items:center;gap:64px;padding:48px 40px 72px}.land-copy{padding-bottom:8px}.mm .land h1{font-size:clamp(44px,4.2vw,60px);margin-top:20px}.land p{font-size:18px}.mm .land-go{width:300px;max-width:100%;margin-top:30px}.land-hint{font-size:12px}.home-preview{padding:28px 28px 54px;border-radius:28px;max-width:none}.hp-heading{font-size:18px}.hp-people{margin:20px 0}.hp-ticket{padding:24px}.hp-ticket-head b{font-size:18px}.hp-line{font-size:16px;padding:13px 0}.hp-note{right:24px;bottom:-16px;padding:16px 20px;font-size:13px}.home-content{padding:16px 40px 48px}.mm .how{grid-template-columns:repeat(3,minmax(0,1fr));gap:32px}.mm .how li{flex-direction:column;gap:14px;padding:24px 0}.how-heading .sec-title{font-size:28px}.my-rooms .room-cards{display:grid;grid-template-columns:repeat(2,minmax(0,1fr))}.brand-footer{margin:0 24px;padding:24px 16px;font-size:13px}
+  .home-brand{padding:32px 24px}.home-brand a{font-size:23px}.land{grid-template-columns:1.1fr 1fr;align-items:center;gap:64px;padding:48px 40px 72px}.land-copy{padding-bottom:8px}.mm .land h1{font-size:clamp(44px,4.2vw,60px);margin-top:20px}.land p{font-size:18px}.mm .land-go{width:300px;max-width:100%;margin-top:30px}.land-hint{font-size:12px}.home-preview{padding:28px 28px 54px;border-radius:28px;max-width:none}.hp-heading{font-size:18px}.hp-people{margin:20px 0}.hp-ticket{padding:24px}.hp-ticket-head b{font-size:18px}.hp-line{font-size:16px;padding:13px 0}.hp-note{right:24px;bottom:-16px;padding:16px 20px;font-size:13px}.home-content{padding:16px 40px 48px}.mm .how{grid-template-columns:repeat(3,minmax(0,1fr));gap:32px}.mm .how li{flex-direction:column;gap:14px;padding:24px 20px}.how-heading .sec-title{font-size:28px}.my-rooms .room-cards{display:grid;grid-template-columns:repeat(2,minmax(0,1fr))}.brand-footer{margin:0 24px;padding:24px 16px;font-size:13px}
 }
 @media(min-width:1180px){.host-layout{display:grid;grid-template-columns:270px minmax(0,1fr);gap:20px;align-items:start}.host-created{grid-column:1/-1}.mm .host-created{margin:0}.host-overview{position:sticky;top:112px}.mm .host-results .seg{margin-top:0}.mm .host-overview .a-sec{padding:16px}.mm .host-overview .prog{gap:10px}}
 @media(max-width:374px){.home-brand,.land,.home-content{padding-left:18px;padding-right:18px}.mm .land h1{font-size:32px}.mm .land p{font-size:15px}.mm .menu .name{font-size:15px}.mm .menu .desc{-webkit-line-clamp:1}.mm .menu.plain .menu-main{padding-right:108px}.mm .qty b{min-width:20px}.mm .nav-i span{font-size:11px}.brand-footer{font-size:11px;gap:8px;padding:24px 18px}.mm .chip-who{max-width:34%;font-size:12px}}
+/* 유리 효과를 지원하지 않거나 대비를 높이면 읽기 쉬운 단색 면으로 전환. */
+@supports not ((backdrop-filter:blur(1px)) or (-webkit-backdrop-filter:blur(1px))){.mm .top,.mm .nav,.mm .bottom-bar,.mm .shop-compact,.home-preview{background:#f4fcf8}}
+@media(prefers-reduced-transparency:reduce){.mm .top,.mm .nav,.mm .bottom-bar,.mm .shop-compact,.home-preview{background:#f4fcf8;backdrop-filter:none;-webkit-backdrop-filter:none}}
+@media(prefers-contrast:more){.mm .menu,.mm .card,.mm .ticket,.mm .a-sec,.mm .f-sec,.mm .nav,.mm .input{border-color:#547c70}.mm .menu,.mm .card,.mm .ticket{background:#fff}}
 @media(prefers-reduced-motion:reduce){#app.enter>*,.mm .room-card,.mm .so-ic,.mm .bump,.sheet,.sheet-bg{animation:none!important}*,*::before,*::after{scroll-behavior:auto!important;transition:none!important}}
-@media print{#app.with-room-nav{width:100%;max-width:none;padding:0}.host-layout{display:block}.host-overview{position:static}.home-brand,.brand-footer,.pin-bar{display:none!important}.mm .card,.mm .ticket{box-shadow:none;border:1px solid #bbb}.mm .menus{display:block}}
+@media print{html,body{background:#fff!important}.mm .card,.mm .a-sec,.mm .ticket,.mm .menu{background:#fff!important;box-shadow:none!important;backdrop-filter:none!important}#app.with-room-nav{width:100%;max-width:none;padding:0}.host-layout{display:block}.host-overview{position:static}.home-brand,.brand-footer,.pin-bar{display:none!important}.mm .card,.mm .ticket{box-shadow:none;border:1px solid #bbb}.mm .menus{display:block}}
 </style>
 </head>
 <body>
